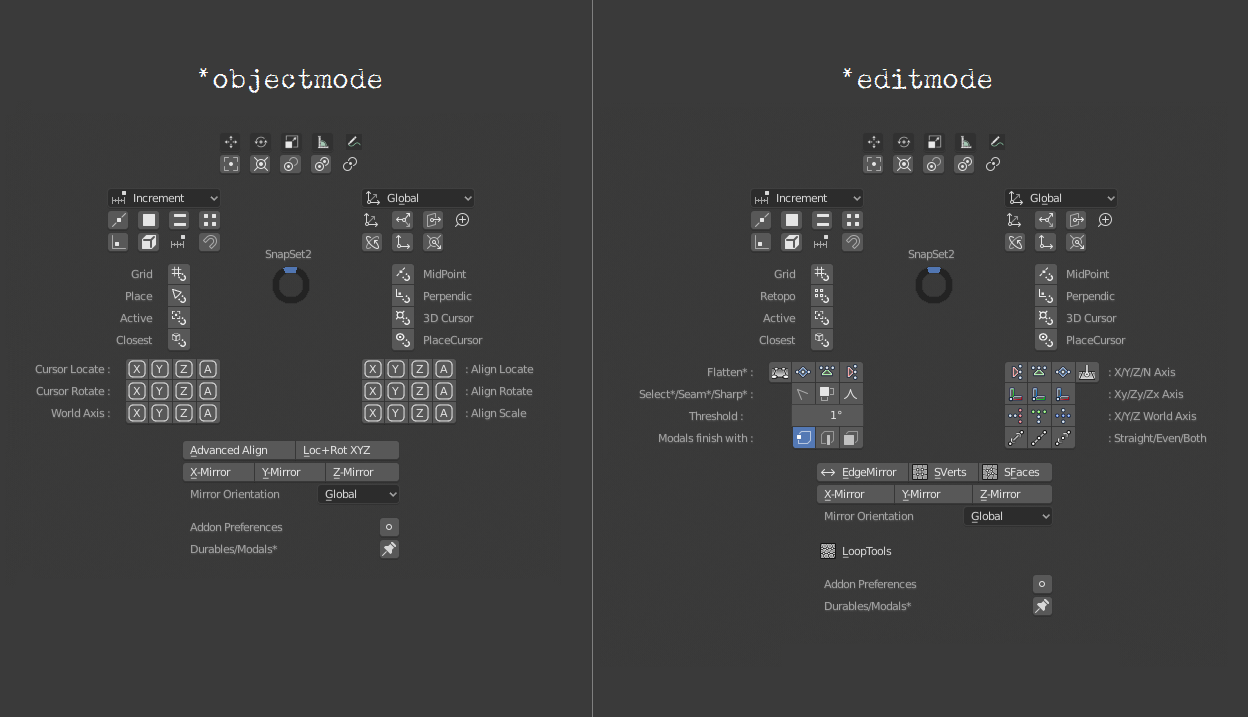
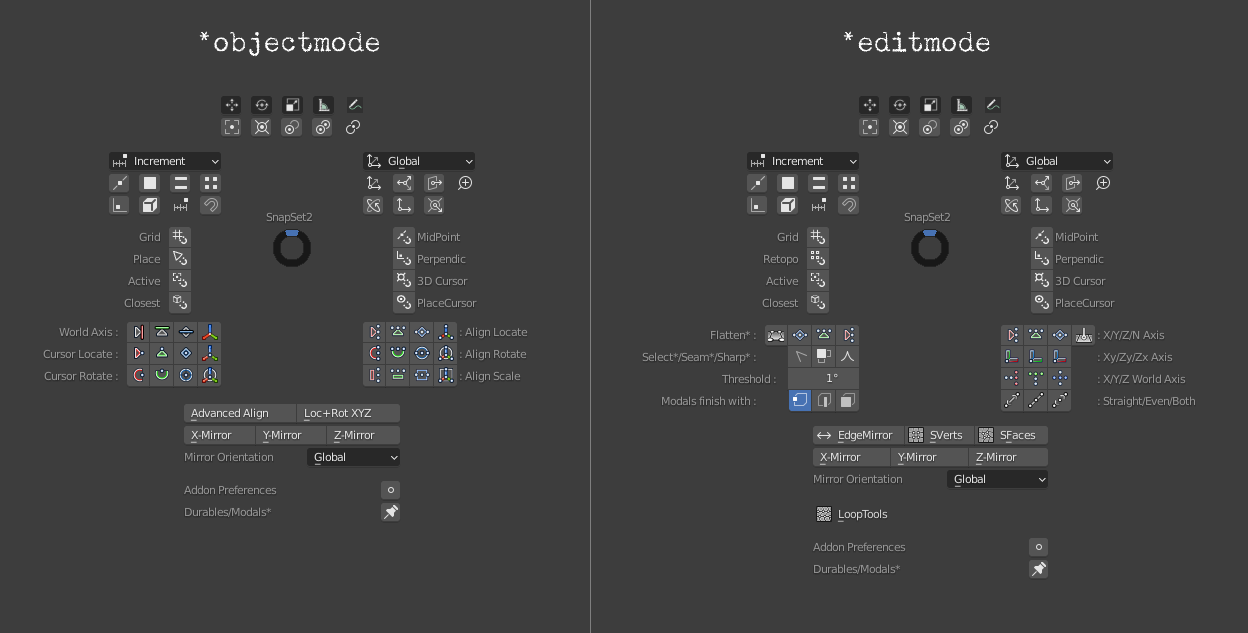
sync

diff --git a/ui_menu_pie_2.py b/ui_menu_pie_2.py
@@ -605,6 +605,37 @@ class VIEW3D_MT_snapset_menu_pie_2(bpy.types.Menu):
         box.separator()    
         box.separator()    
 
+        button_align_x   = icons.get("icon_align_x") 
+        button_align_y   = icons.get("icon_align_y") 
+        button_align_z   = icons.get("icon_align_z") 
+        button_align_xyz = icons.get("icon_align_xyz") 
+
+        button_rota_x   = icons.get("icon_rota_x") 
+        button_rota_y   = icons.get("icon_rota_y") 
+        button_rota_z   = icons.get("icon_rota_z") 
+        button_rota_xyz = icons.get("icon_rota_xyz") 
+
+        button_scale_x   = icons.get("icon_scale_x") 
+        button_scale_y   = icons.get("icon_scale_y") 
+        button_scale_z   = icons.get("icon_scale_z") 
+        button_scale_xyz = icons.get("icon_scale_xyz") 
+
+        button_world_x   = icons.get("icon_world_x") 
+        button_world_y   = icons.get("icon_world_y") 
+        button_world_z   = icons.get("icon_world_z") 
+        button_world_xyz = icons.get("icon_world_xyz") 
+
+        button_cursor_loca_x   = icons.get("icon_cursor_loca_x") 
+        button_cursor_loca_y   = icons.get("icon_cursor_loca_y") 
+        button_cursor_loca_z   = icons.get("icon_cursor_loca_z") 
+        button_cursor_loca_xyz = icons.get("icon_cursor_loca_xyz") 
+
+        button_cursor_rota_x   = icons.get("icon_cursor_rota_x") 
+        button_cursor_rota_y   = icons.get("icon_cursor_rota_y") 
+        button_cursor_rota_z   = icons.get("icon_cursor_rota_z") 
+        button_cursor_rota_xyz = icons.get("icon_cursor_rota_xyz") 
+
+
         if addon_prefs.toggle_button_switch == False:           
             box.separator()                 
             box.separator()    
@@ -613,12 +644,39 @@ class VIEW3D_MT_snapset_menu_pie_2(bpy.types.Menu):
             box.separator()   
       
         if context.mode == 'OBJECT':
-                
+           
+            # align selcted to global world axis
+            row = box.row(align=True)                      
+            row.alignment = 'RIGHT' 
+            row.label(text="World Axis :")
+
+            props = row.operator("tpc_ot.align_object_to_axis",text="", icon_value=button_world_x.icon_id)
+            props.use_align_axis_x=True   
+            props.use_align_axis_y=False   
+            props.use_align_axis_z=False     
+
+            props = row.operator("tpc_ot.align_object_to_axis",text="", icon_value=button_world_y.icon_id)
+            props.use_align_axis_x=False   
+            props.use_align_axis_y=True   
+            props.use_align_axis_z=False    
+
+            props = row.operator("tpc_ot.align_object_to_axis",text="", icon_value=button_world_z.icon_id)
+            props.use_align_axis_x=False   
+            props.use_align_axis_y=False   
+            props.use_align_axis_z=True     
+
+            props = row.operator("tpc_ot.align_object_to_axis",text="", icon_value=button_world_xyz.icon_id)
+            props.use_align_axis_x=True   
+            props.use_align_axis_y=True   
+            props.use_align_axis_z=True              
+
+
+            # align to cursor location
             row = box.row(align=True)                       
             row.alignment = 'RIGHT' 
-            row.label(text="Cursor Locate :")              
+            row.label(text="Cursor Location :")              
 
-            props = row.operator("tpc_ot.cursor_copy", text="", icon ='EVENT_X')
+            props = row.operator("tpc_ot.cursor_copy", text="", icon_value=button_cursor_loca_x.icon_id)
             props.copy_rot = False
             props.copy_rot_x = False
             props.copy_rot_y = False
@@ -628,7 +686,7 @@ class VIEW3D_MT_snapset_menu_pie_2(bpy.types.Menu):
             props.copy_loc_y = False
             props.copy_loc_z = False
             
-            props = row.operator("tpc_ot.cursor_copy", text="", icon ='EVENT_Y')
+            props = row.operator("tpc_ot.cursor_copy", text="", icon_value=button_cursor_loca_y.icon_id)
             props.copy_rot = False
             props.copy_rot_x = False
             props.copy_rot_y = False
@@ -638,7 +696,7 @@ class VIEW3D_MT_snapset_menu_pie_2(bpy.types.Menu):
             props.copy_loc_y = True
             props.copy_loc_z = False                    
             
-            props = row.operator("tpc_ot.cursor_copy", text="", icon ='EVENT_Z')
+            props = row.operator("tpc_ot.cursor_copy", text="", icon_value=button_cursor_loca_z.icon_id)
             props.copy_rot = False
             props.copy_rot_x = False
             props.copy_rot_y = False
@@ -648,7 +706,7 @@ class VIEW3D_MT_snapset_menu_pie_2(bpy.types.Menu):
             props.copy_loc_y = False
             props.copy_loc_z = True                       
             
-            props = row.operator("tpc_ot.cursor_copy", text="", icon ='EVENT_A')
+            props = row.operator("tpc_ot.cursor_copy", text="", icon_value=button_cursor_loca_xyz.icon_id)
             props.copy_rot = False
             props.copy_rot_x = False
             props.copy_rot_y = False
@@ -659,12 +717,12 @@ class VIEW3D_MT_snapset_menu_pie_2(bpy.types.Menu):
             props.copy_loc_z = False    
       
 
-            # cursor copy
+            # align to cursor rotation
             row = box.row(align=True)                     
             row.alignment = 'RIGHT' 
-            row.label(text="Cursor Rotate :")
+            row.label(text="Cursor Rotation :")
                 
-            props = row.operator("tpc_ot.cursor_copy", text="", icon ='EVENT_X')
+            props = row.operator("tpc_ot.cursor_copy", text="", icon_value=button_cursor_rota_x.icon_id)
             props.copy_rot = False
             props.copy_rot_x = True
             props.copy_rot_y = False
@@ -674,7 +732,7 @@ class VIEW3D_MT_snapset_menu_pie_2(bpy.types.Menu):
             props.copy_loc_y = False
             props.copy_loc_z = False
             
-            props = row.operator("tpc_ot.cursor_copy", text="", icon ='EVENT_Y')
+            props = row.operator("tpc_ot.cursor_copy", text="", icon_value=button_cursor_rota_y.icon_id)
             props.copy_rot = False
             props.copy_rot_x = False
             props.copy_rot_y = True
@@ -684,7 +742,7 @@ class VIEW3D_MT_snapset_menu_pie_2(bpy.types.Menu):
             props.copy_loc_y = False
             props.copy_loc_z = False
             
-            props = row.operator("tpc_ot.cursor_copy", text="", icon ='EVENT_Z')
+            props = row.operator("tpc_ot.cursor_copy", text="", icon_value=button_cursor_rota_z.icon_id)
             props.copy_rot = False
             props.copy_rot_x = False
             props.copy_rot_y = False
@@ -694,7 +752,7 @@ class VIEW3D_MT_snapset_menu_pie_2(bpy.types.Menu):
             props.copy_loc_y = False
             props.copy_loc_z = False
             
-            props = row.operator("tpc_ot.cursor_copy", text="", icon ='EVENT_A')
+            props = row.operator("tpc_ot.cursor_copy", text="", icon_value=button_cursor_rota_xyz.icon_id)
             props.copy_rot = True
             props.copy_rot_x = False
             props.copy_rot_y = False
@@ -703,33 +761,6 @@ class VIEW3D_MT_snapset_menu_pie_2(bpy.types.Menu):
             props.copy_loc_x = False
             props.copy_loc_y = False
             props.copy_loc_z = False
-
-
-            # align to axis
-            row = box.row(align=True)                      
-            row.alignment = 'RIGHT' 
-            row.label(text="World Axis :")
-
-            props = row.operator("tpc_ot.align_object_to_axis", text="", icon ='EVENT_X')
-            props.use_align_axis_x=True   
-            props.use_align_axis_y=False   
-            props.use_align_axis_z=False     
-
-            props = row.operator("tpc_ot.align_object_to_axis",text="", icon ='EVENT_Y')
-            props.use_align_axis_x=False   
-            props.use_align_axis_y=True   
-            props.use_align_axis_z=False    
-
-            props = row.operator("tpc_ot.align_object_to_axis",text="", icon ='EVENT_Z')
-            props.use_align_axis_x=False   
-            props.use_align_axis_y=False   
-            props.use_align_axis_z=True     
-
-            props = row.operator("tpc_ot.align_object_to_axis",text="", icon ='EVENT_A')
-            props.use_align_axis_x=True   
-            props.use_align_axis_y=True   
-            props.use_align_axis_z=True              
-
 
 
         if context.mode == 'EDIT_MESH':
@@ -849,24 +880,26 @@ class VIEW3D_MT_snapset_menu_pie_2(bpy.types.Menu):
                 else:  
 
                     row = box.row(align=True)                                                   
-                    row.operator("object.align_location_x", text="", icon ='EVENT_X')
-                    row.operator("object.align_location_y", text="", icon ='EVENT_Y')
-                    row.operator("object.align_location_z", text="", icon ='EVENT_Z')
-                    row.operator("object.align_location_all", text="", icon ='EVENT_A')
-                    row.label(text=": Align Locate")   
+                    row.operator("object.align_location_x", text="", icon_value=button_align_x.icon_id)
+                    row.operator("object.align_location_y", text="", icon_value=button_align_y.icon_id)
+                    row.operator("object.align_location_z", text="", icon_value=button_align_z.icon_id)
+                    row.operator("object.align_location_all", text="", icon_value=button_align_xyz.icon_id)
+                    row.label(text=": Align Location")   
+
 
                     row = box.row(align=True)              
-                    row.operator("object.align_rotation_x", text="", icon ='EVENT_X')
-                    row.operator("object.align_rotation_y", text="", icon ='EVENT_Y')
-                    row.operator("object.align_rotation_z", text="", icon ='EVENT_Z')
-                    row.operator("object.align_rotation_all", text="", icon ='EVENT_A')
-                    row.label(text=": Align Rotate") 
+                    row.operator("object.align_rotation_x", text="", icon_value=button_rota_x.icon_id)
+                    row.operator("object.align_rotation_y", text="", icon_value=button_rota_y.icon_id)
+                    row.operator("object.align_rotation_z", text="", icon_value=button_rota_z.icon_id)
+                    row.operator("object.align_rotation_all", text="", icon_value=button_rota_xyz.icon_id)
+                    row.label(text=": Align Rotation") 
+
 
                     row = box.row(align=True)                                      
-                    row.operator("object.align_objects_scale_x", text="", icon ='EVENT_X')
-                    row.operator("object.align_objects_scale_y", text="", icon ='EVENT_Y')
-                    row.operator("object.align_objects_scale_z", text="", icon ='EVENT_Z')
-                    row.operator("object.align_objects_scale_all", text="", icon ='EVENT_A')
+                    row.operator("object.align_objects_scale_x", text="", icon_value=button_scale_x.icon_id)
+                    row.operator("object.align_objects_scale_y", text="", icon_value=button_scale_y.icon_id)
+                    row.operator("object.align_objects_scale_z", text="", icon_value=button_scale_z.icon_id)
+                    row.operator("object.align_objects_scale_all", text="", icon_value=button_scale_xyz.icon_id)
                     row.label(text=": Align Scale")
 
 

diff --git a/icons/icons.py b/icons/icons.py
@@ -42,10 +42,37 @@ def load_icons():
 
     mkb_icons.load("icon_align_x", os.path.join(icons_dir, "align_x.png"), 'IMAGE')    
     mkb_icons.load("icon_align_y", os.path.join(icons_dir, "align_y.png"), 'IMAGE')    
-    mkb_icons.load("icon_align_z", os.path.join(icons_dir, "align_z.png"), 'IMAGE')    
+    mkb_icons.load("icon_align_z", os.path.join(icons_dir, "align_z.png"), 'IMAGE') 
+    mkb_icons.load("icon_align_xyz", os.path.join(icons_dir, "align_xyz.png"), 'IMAGE') 
+
     mkb_icons.load("icon_align_xy", os.path.join(icons_dir, "align_xy.png"), 'IMAGE')    
     mkb_icons.load("icon_align_zx", os.path.join(icons_dir, "align_zx.png"), 'IMAGE')    
     mkb_icons.load("icon_align_zy", os.path.join(icons_dir, "align_zy.png"), 'IMAGE')   
+
+    mkb_icons.load("icon_rota_x", os.path.join(icons_dir, "rota_x.png"), 'IMAGE') 
+    mkb_icons.load("icon_rota_y", os.path.join(icons_dir, "rota_y.png"), 'IMAGE') 
+    mkb_icons.load("icon_rota_z", os.path.join(icons_dir, "rota_z.png"), 'IMAGE') 
+    mkb_icons.load("icon_rota_xyz", os.path.join(icons_dir, "rota_xyz.png"), 'IMAGE') 
+
+    mkb_icons.load("icon_scale_x", os.path.join(icons_dir, "scale_x.png"), 'IMAGE')    
+    mkb_icons.load("icon_scale_y", os.path.join(icons_dir, "scale_y.png"), 'IMAGE')    
+    mkb_icons.load("icon_scale_z", os.path.join(icons_dir, "scale_z.png"), 'IMAGE')    
+    mkb_icons.load("icon_scale_xyz", os.path.join(icons_dir, "scale_xyz.png"), 'IMAGE')    
+
+    mkb_icons.load("icon_world_x", os.path.join(icons_dir, "world_x.png"), 'IMAGE') 
+    mkb_icons.load("icon_world_y", os.path.join(icons_dir, "world_y.png"), 'IMAGE') 
+    mkb_icons.load("icon_world_z", os.path.join(icons_dir, "world_z.png"), 'IMAGE') 
+    mkb_icons.load("icon_world_xyz", os.path.join(icons_dir, "world_xyz.png"), 'IMAGE') 
+ 
+    mkb_icons.load("icon_cursor_loca_x", os.path.join(icons_dir, "cursor_loca_x.png"), 'IMAGE') 
+    mkb_icons.load("icon_cursor_loca_y", os.path.join(icons_dir, "cursor_loca_y.png"), 'IMAGE') 
+    mkb_icons.load("icon_cursor_loca_z", os.path.join(icons_dir, "cursor_loca_z.png"), 'IMAGE') 
+    mkb_icons.load("icon_cursor_loca_xyz", os.path.join(icons_dir, "cursor_loca_xyz.png"), 'IMAGE') 
+
+    mkb_icons.load("icon_cursor_rota_x", os.path.join(icons_dir, "cursor_rota_x.png"), 'IMAGE') 
+    mkb_icons.load("icon_cursor_rota_y", os.path.join(icons_dir, "cursor_rota_y.png"), 'IMAGE') 
+    mkb_icons.load("icon_cursor_rota_z", os.path.join(icons_dir, "cursor_rota_z.png"), 'IMAGE') 
+    mkb_icons.load("icon_cursor_rota_xyz", os.path.join(icons_dir, "cursor_rota_xyz.png"), 'IMAGE') 
 
     mkb_icons.load("icon_event_x", os.path.join(icons_dir, "event_x.png"), 'IMAGE')    
     mkb_icons.load("icon_event_y", os.path.join(icons_dir, "event_y.png"), 'IMAGE')    
